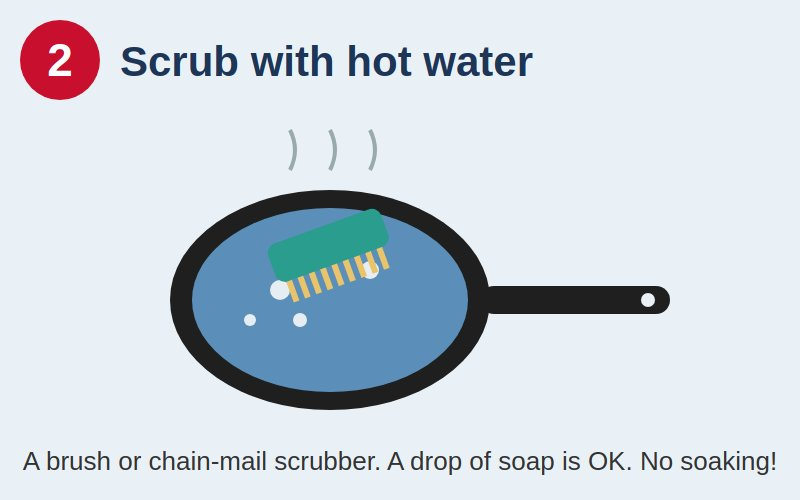
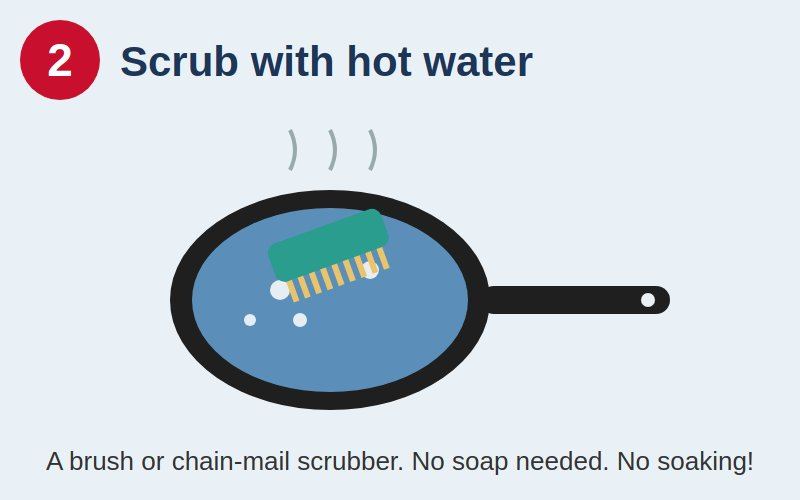
Cast iron post: no soap needed, heat sanitizes

Changed region(s): [[0.0312, 0.9, 0.9688, 0.96]]

diff --git a/_posts/2026-11-16-cleaning-cast-iron.md b/_posts/2026-11-16-cleaning-cast-iron.md
@@ -33,7 +33,7 @@ Clean it soon after cooking, while it's still warm. Food comes off much more eas
 
 ![Step 2: scrub with hot water]({{ '/assets/img/cast-iron-step2-scrub.jpg' | relative_url }})
 
-Use hot water and a scrub brush or a chain-mail scrubber. A small squirt of dish soap is fine.
+Use hot water and a scrub brush or a chain-mail scrubber. **You don't need soap.** The heat in the next step does the germ-killing. If something greasy or smelly won't come off (like fish), one drop of soap is OK, but that's the exception, not the rule.
 
 - **Don't** leave it soaking in the wash tub.
 - **Don't** use steel wool. It scrubs off the seasoning.
@@ -44,6 +44,8 @@ Use hot water and a scrub brush or a chain-mail scrubber. A small squirt of dish
 ![Step 3: dry it on the heat]({{ '/assets/img/cast-iron-step3-dry.jpg' | relative_url }})
 
 Wipe it with a towel, then set it on the stove or coals for 2 to 3 minutes until every drop of water is gone. A towel alone leaves the metal damp, and damp metal rusts by morning.
+
+This step also **sanitizes** the pan. Germs can't survive on metal that's too hot to touch, so the heat does the job that soap does on other dishes. That's why cast iron gets heated, not soaped.
 
 ### 4. Wipe on a thin coat of oil
 
